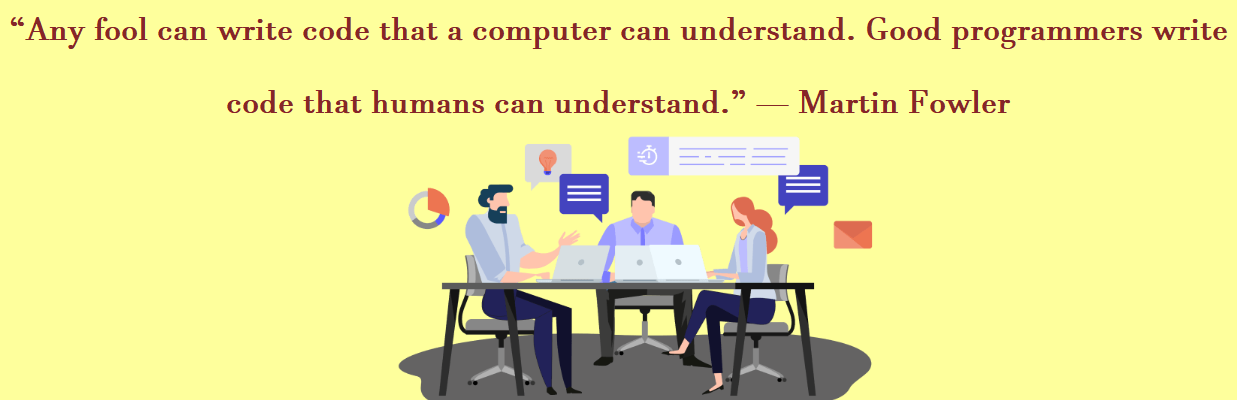
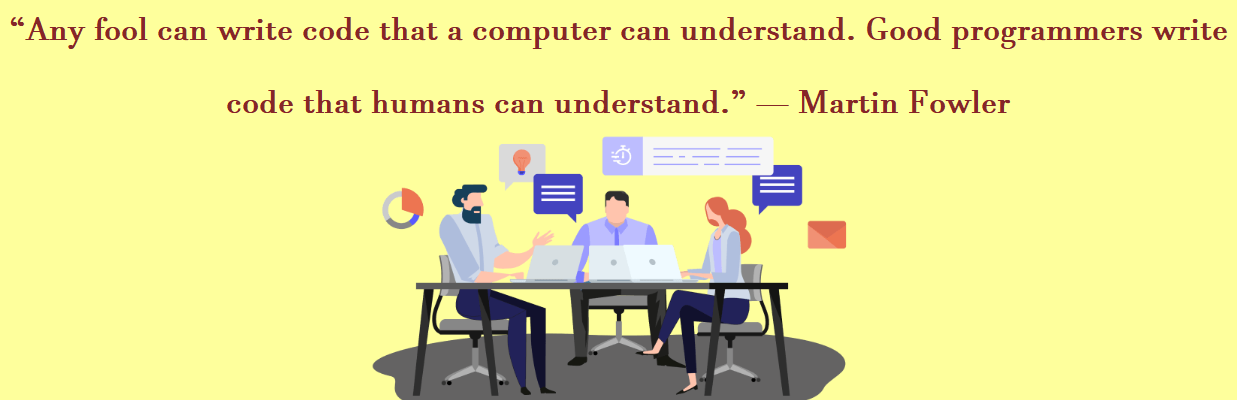
Added responsive viewport options and adjusted formatting accordingly

Changed region(s): [[0.2765, 0.33, 0.7065, 1.0]]

diff --git a/assets/stylesheets/style.css b/assets/stylesheets/style.css
@@ -121,8 +121,6 @@ nav ul {
 }
 .hero img {
     height: 400px;
-    /*had to add a margin to my image because centering things is hard :(*/
-    margin-right: 40px;
 }
 
 /*setting the properties for all h2 elements on the page*/
@@ -245,15 +243,46 @@ footer p::before {
     content: "\00a9";
 }
 
-/*viewport adjustments for tablets or large phones*/
-@media screen and (max-width: 992px) {
- 
+
+/*viewport adjustments for standard tablets*/
+@media only screen and (max-width: 1024px) {
+    .hero img{
+        width: 80vw;
+    }
+    .projects{
+        display: inline;
+        align-items: flex-start;
+        padding: 30%;
+        min-width: fit-content;
+        min-height: fit-content;
+    }
+    .projects figure figcaption {
+        font-size: 42px;
+        font-family: fantasy;
+        margin-top: 10px;
+        margin-bottom: 15px;
+    }
+    #horison figcaption {
+        font-size: 42px;
+    }
 }
-/*viewport adjustments for standard phones*/
-@media screen and (max-width: 768px) {
- 
-}
-/*viewport adjustments for small phones*/
-@media screen and (max-width: 576px) {
- 
+/*viewport adjustments for phones*/
+@media only screen and (max-width: 768px) {    
+    .hero img{
+        width: 80vw;
+    }
+
+    .projects{
+        display: inline;
+        align-items: flex-start;
+        padding: 30%;
+        min-width: fit-content;
+        min-height: fit-content;
+    }
+    .projects figure figcaption {
+        font-size: 30px;
+        font-family: fantasy;
+        margin-top: 10px;
+        margin-bottom: 15px;
+    }
 }

diff --git a/index.html b/index.html
@@ -83,7 +83,6 @@
     <button type="button" id="button"><a href="mailto:anthonymiacanojr@gmail.com">CLICK HERE</a></button>
 </section>
 <!--Start of the CONTACT:SOCIAL MEDIA Sub-Section-->
-<div>
 <ui class="social-media-group">
     <li><a href="https://www.instagram.com/"><img class = "social-media-icons" src = "assets/images/instagram-social.png" alt="an icon representing Instagram"></a></li>
     <li><a href="https://www.twitter.com/"><img class = "social-media-icons" src = "assets/images/twitter-social.png" alt="an icon representing Twitter"></a></li>
@@ -91,9 +90,7 @@
     <li><a href="https://www.linkedin.com/in/anthony-iacano/"><img class = "social-media-icons" src = "assets/images/linkedin-social.png" alt="an icon representing Linkedin"></a></li>
     <li><a href="https://github.com/Anthony-GG/"><img class = "social-media-icons" src = "assets/images/github-social.png" alt="an icon representing GitHub"></a></li>
 </ui>
-</div>
 
 <footer>
-
     <p> Anthony Iacano 2023</p></footer>
 </body>
